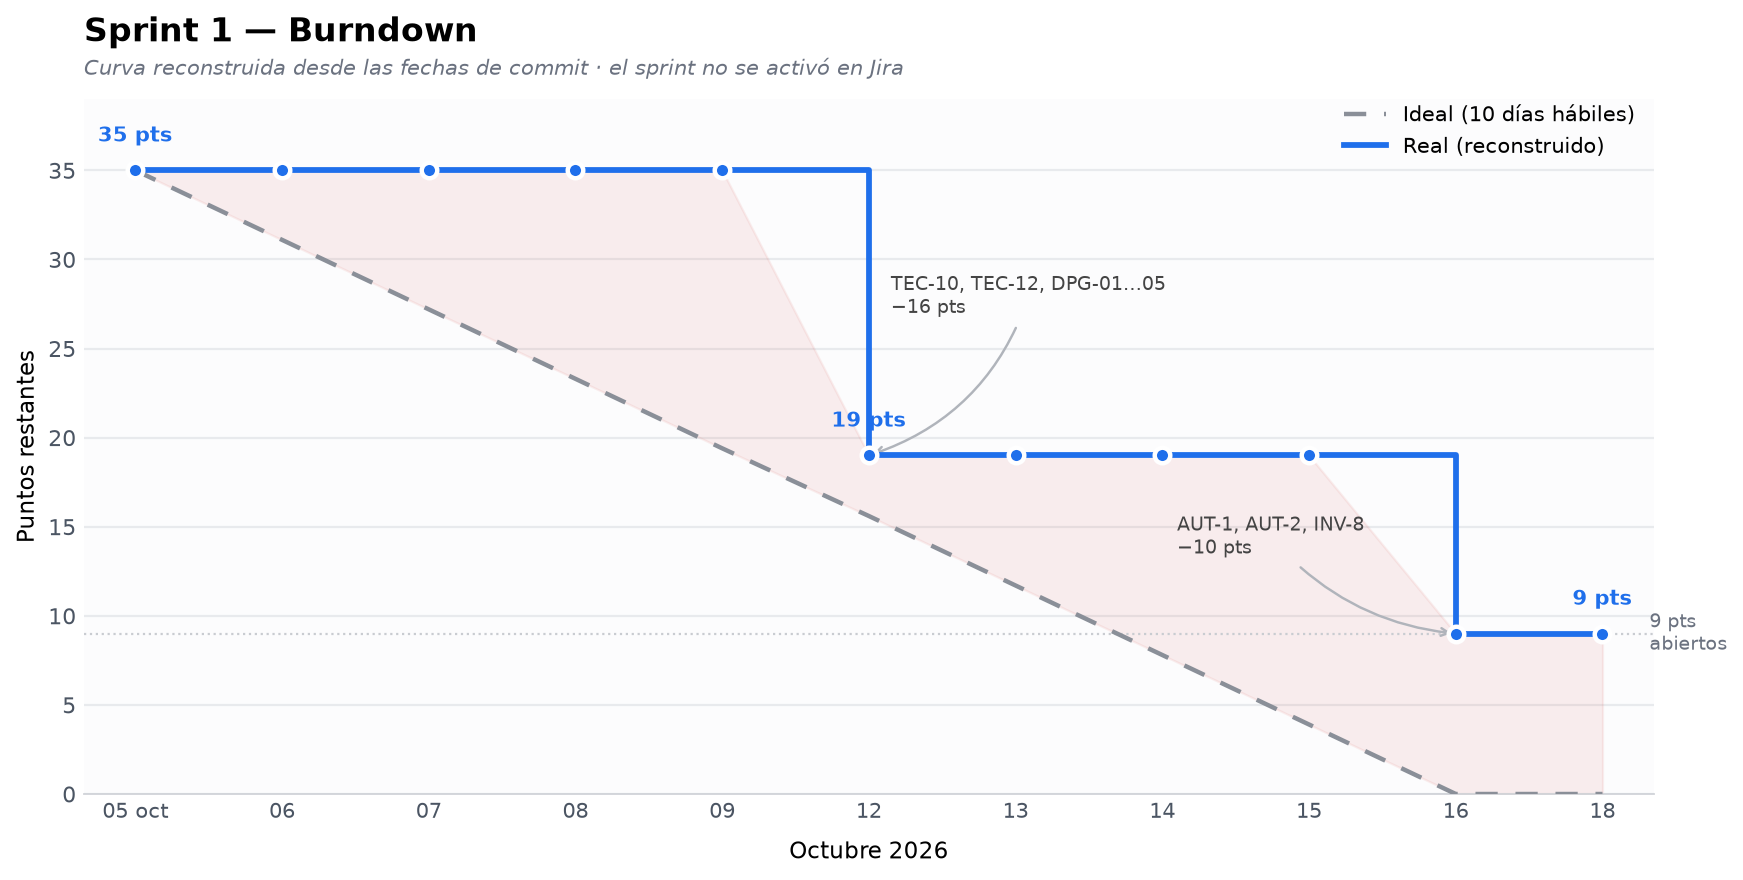
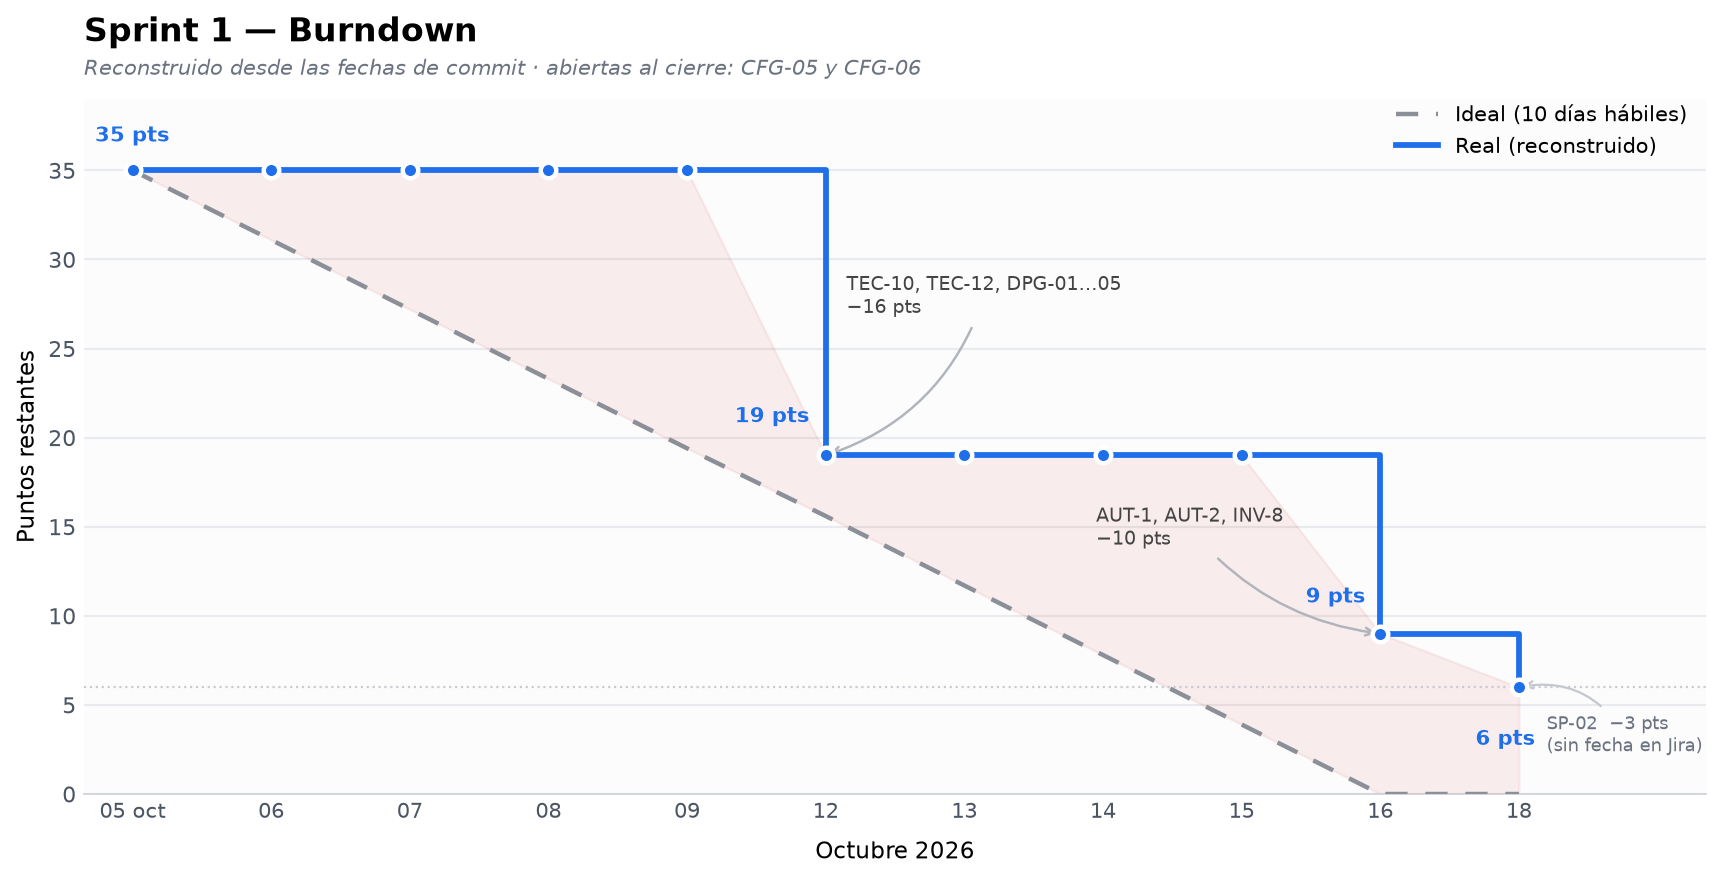
docs(fase2): corregir trazabilidad del Sprint 1 contra Jira
El tablero afirmaba ser un render de los datos de la API de Jira. No lo era: Jira tiene 3 HUs asignadas al Sprint 1 (ZO-11, ZO-12 y ZO-71) y el documento mostraba 13. La lista de HUs se habia reconstruido desde los commits, que prueban el trabajo pero no la pertenencia al sprint.

diff --git a/docs/fase2/sprint-1/scrumboard.md b/docs/fase2/sprint-1/scrumboard.md
@@ -2,19 +2,22 @@
 
 ![Tablero del Sprint 1 al cierre](./scrumboard.png)
 
-> **Imagen renderizada desde los datos de Jira**, no una captura del tablero. Muestra las mismas
-> HUs, columnas y puntos que devuelve la API para
-> `project = ZO AND sprint = "Sprint 1 — Prototipo y motor"`, pero se genera a partir de esos datos
-> para que quede versionada y no dependa de una sesión autenticada.
+> **Reconstrucción, no captura.** Jira no se usó como fuente de verdad durante el sprint: al
+> cierre, el Sprint 1 tenía **3 HUs asignadas** (ZO-11, ZO-12 y ZO-71). Las otras diez se
+> completaron en las mismas fechas pero nunca se asignaron al sprint.
+>
+> Este tablero reconstruye el estado del trabajo a partir de los commits y del estado de cada HU
+> en Jira. La asignación de las diez HUs al sprint se corrige en el ordenamiento de Jira, y
+> entonces esta imagen se reemplaza por una captura del tablero real.
 
 ## Columnas
 
 | Columna | HUs |
 |---|---|
 | **Por hacer** | ZO-11 (CFG-05), ZO-12 (CFG-06) |
-| **En curso** | ZO-71 (SP-02) |
+| **En curso** | — |
 | **En revisión** | — |
-| **Listo** | ZO-30, ZO-31, ZO-39, ZO-60, ZO-62, ZO-79, ZO-80, ZO-81, ZO-82, ZO-83 |
+| **Listo** | ZO-30, ZO-31, ZO-39, ZO-60, ZO-62, ZO-71, ZO-79, ZO-80, ZO-81, ZO-82, ZO-83 |
 
 ## Flujo de trabajo
 
@@ -34,12 +37,11 @@ autor.
 | Daño por golpe (DPG) | 5 | — |
 | Autenticación (AUT) | 2 | — |
 | Inventario (INV) | 1 | — |
+| Investigación (SP) | 1 | — |
 | Configuración (CFG) | — | 2 |
-| Investigación (SP) | — | 1 |
 
 ## Observación
 
-Diez de trece HUs cerraron y todas las épicas con alcance técnico quedaron completas. Lo
-abierto es de **producto** (editor de configuración) y **decisión** (Supabase), no de motor.
-Eso explica que el sprint cumpliera su objetivo declarado aunque no cerrara el 100 % del
-alcance.
+Once de trece HUs cerraron y todas las épicas con alcance técnico quedaron completas. Lo
+abierto es de **producto** (editor de configuración), no de motor ni de decisión. Eso explica
+que el sprint cumpliera su objetivo declarado aunque no cerrara el 100 % del alcance.

diff --git a/docs/fase2/sprint-1/backlog.md b/docs/fase2/sprint-1/backlog.md
@@ -1,6 +1,12 @@
 # Sprint 1 — Backlog
 
-Estado al cierre del sprint, 18 de octubre de 2026. Fuente: Jira, proyecto `ZO`.
+Estado al cierre del sprint, 18 de octubre de 2026. Fuente: Jira, proyecto `ZO`, contrastado con
+el historial de commits.
+
+> **Advertencia de trazabilidad.** De estas trece HUs, Jira solo tenía **tres** asignadas al
+> sprint (ZO-11, ZO-12 y ZO-71). Las diez restantes se completaron en las mismas fechas pero
+> quedaron sin asignar. El estado y los puntos son correctos; la pertenencia al sprint se
+> corrige en el ordenamiento de Jira.
 
 | HU | Título | Pts | Estado | Evidencia |
 |---|---|---|---|---|
@@ -16,14 +22,14 @@ Estado al cierre del sprint, 18 de octubre de 2026. Fuente: Jira, proyecto `ZO`.
 | ZO-39 · INV-8 | Guardar inventario en la nube | 5 | Listo | `libs/data-access` + migraciones de `supabase/` |
 | ZO-11 · CFG-05 | Crear un nuevo juego desde cero | 3 | **Por hacer** | Se traslada al Sprint 2 |
 | ZO-12 · CFG-06 | Ver la configuración completa de un juego | 3 | **Por hacer** | Se traslada al Sprint 2 |
-| ZO-71 · SP-02 | Investigar el uso de Supabase y cuentas de servicio | 3 | **En curso** | Se cierra en el Sprint 2 con la decisión de RLS |
+| ZO-71 · SP-02 | Investigar el uso de Supabase y cuentas de servicio | 3 | Listo | Jira: `Done`. Sin fecha de transición registrada |
 
 ## Resumen
 
 | Estado | HUs | Puntos |
 |---|---|---|
-| Listo | 10 | 26 |
-| En curso | 1 | 3 |
+| Listo | 11 | 29 |
+| En curso | 0 | 0 |
 | Por hacer | 2 | 6 |
 | **Total** | **13** | **35** |
 
@@ -31,7 +37,6 @@ Estado al cierre del sprint, 18 de octubre de 2026. Fuente: Jira, proyecto `ZO`.
 
 - **CFG-05 y CFG-06** (6 pts): dependen del editor de plantillas, que necesita primero el
   esquema de datos ya definido en `shared-types`.
-- **SP-02** (3 pts): la investigación no bloqueaba el motor; se termina cuando entra Supabase.
 
 ## Nota sobre el alcance
 

diff --git a/docs/fase2/sprint-1/burndown.md b/docs/fase2/sprint-1/burndown.md
@@ -27,25 +27,31 @@
 | 14 oct | 7,8 | 19 | — |
 | 15 oct | 3,9 | 19 | — |
 | 16 oct | 0,0 | **9** | AUT-1, AUT-2, INV-8 (−10) |
-| 18 oct | 0,0 | **9** | cierre del sprint |
+| 18 oct | 0,0 | **6** | SP-02 (−3) |
 
 ## Aritmética del cierre
 
 ```
 Comprometido          35 pts
-Cerrado en el sprint  26 pts  (TEC-10, TEC-12, DPG-01…05, AUT-1, AUT-2, INV-8)
-Abierto al cierre      9 pts  (CFG-05, CFG-06, SP-02)
-Cumplimiento          26 / 35 = 74 %
+Cerrado en el sprint  29 pts  (TEC-10, TEC-12, DPG-01…05, AUT-1, AUT-2, INV-8, SP-02)
+Abierto al cierre      6 pts  (CFG-05, CFG-06)
+Cumplimiento          29 / 35 = 83 %
 ```
 
 ## Lectura
 
 - **La curva es escalonada, no diagonal.** Cinco días sin cierre y dos caídas netas (12 y 16 de
   octubre). Es el patrón de trabajo concentrado en sesiones, no de dedicación diaria pareja.
-- **Termina 9 puntos por encima de la línea ideal**, que son exactamente los tres HUs trasladadas
+- **Termina 6 puntos por encima de la línea ideal**, que son exactamente las dos HUs trasladadas
   al Sprint 2. No hay desvío no explicado: todo punto abierto tiene destino.
 - **El hueco no creció a mitad de sprint.** La distancia con el ideal pasó de ~16 puntos el 12 de
-  octubre a 9 al cierre: el trabajo aceleró al final, no se estancó.
+  octubre a 6 al cierre: el trabajo aceleró al final, no se estancó.
+
+## Límite del dato
+
+Jira registra SP-02 como `Done` pero **no guarda la fecha de la transición**, así que el paso de
+9 a 6 puntos no se puede ubicar en un día concreto. Se dibuja en el cierre porque es lo único
+verificable. Los otros dos escalones sí tienen fecha de commit.
 
 ## Datos que respaldan la curva
 

diff --git a/docs/fase2/sprint-1/review.md b/docs/fase2/sprint-1/review.md
@@ -11,9 +11,9 @@ criterio de aceptación declarado.
 | Métrica | Valor |
 |---|---|
 | Puntos comprometidos | 35 |
-| Puntos completados | 26 |
-| Cumplimiento | **74 %** |
-| HUs cerradas | 10 de 13 |
+| Puntos completados | 29 |
+| Cumplimiento | **83 %** |
+| HUs cerradas | 11 de 13 |
 
 ## Incremento demostrable
 
@@ -64,12 +64,11 @@ migraciones son idempotentes.
 | HU | Motivo | Destino |
 |---|---|---|
 | CFG-05, CFG-06 | Necesitan el editor, que depende del contrato recién creado | Sprint 2 |
-| SP-02 | La investigación de cuentas de servicio no bloqueaba el motor | Sprint 2 |
 
 ## Observaciones de la review
 
-- **El 74 % no es un sprint fallido.** El objetivo declarado era el motor, y el motor está
-  completo. Lo abierto es de producto y de decisión, no de la pieza central.
+- **El 83 % no es un sprint fallido.** El objetivo declarado era el motor, y el motor está
+  completo. Lo abierto es de producto, no de la pieza central.
 - **El prototipo cumplió su función y se congela.** A partir de aquí, toda evidencia se produce
   en el monorepo; `demo/` queda como referencia histórica del PR #2.
 - **Sin tag de release todavía.** El incremento es identificable por fecha, no por etiqueta. Se

diff --git a/docs/fase2/sprint-1/impedimentos.md b/docs/fase2/sprint-1/impedimentos.md
@@ -32,7 +32,8 @@ que el proyecto de Vercel sirve `apps/web`, no `demo/`.
 **Problema.** SP-02 investigaba cómo manejar cuentas de servicio en Supabase. Sin esa decisión,
 RLS no se podía diseñar, y sin RLS el inventario en la nube quedaba sin modelo de permisos.
 
-**Estado al cierre.** **Abierto.** Se cierra en el Sprint 2 junto con las políticas RLS.
+**Estado al cierre.** **Resuelto.** Jira registra SP-02 como `Done`, aunque no guarda la fecha de
+la transición, así que el cierre no se puede fechar dentro del sprint con precisión.
 
 ## Resumen
 
@@ -41,4 +42,4 @@ RLS no se podía diseñar, y sin RLS el inventario en la nube quedaba sin modelo
 | IMP-01 | Motor duplicado entre prototipo y monorepo | Resuelto |
 | IMP-02 | Migraciones no idempotentes | Resuelto |
 | IMP-03 | Conflicto de `vercel.json` | Resuelto |
-| IMP-04 | Decisión de cuentas de servicio | Abierto, pasa al Sprint 2 |
+| IMP-04 | Decisión de cuentas de servicio | Resuelto (SP-02 `Done`) |

diff --git a/docs/fase2/sprint-1/planning.md b/docs/fase2/sprint-1/planning.md
@@ -41,5 +41,9 @@ portarlo al monorepo.
 
 ## Resultado
 
-26 de 35 puntos completados (**74 %**). El objetivo se cumplió: el motor quedó portado y
+29 de 35 puntos completados (**83 %**). El objetivo se cumplió: el motor quedó portado y
 probado. Lo que no entró se trasladó al sprint siguiente (ver `backlog.md`).
+
+> La asignación de HUs al sprint en Jira quedó incompleta: de las trece, solo tres estaban
+> asignadas al cierre. Los puntos y estados son los reales de Jira; la pertenencia se corrige
+> en el ordenamiento de Jira.

diff --git a/docs/fase2/sprint-1/daily.md b/docs/fase2/sprint-1/daily.md
@@ -31,8 +31,9 @@ reconstruye desde el historial de commits y las decisiones quedan documentadas p
 
 ## 18 de octubre — cierre
 
-- Cierre del sprint con 26 de 35 puntos.
-- Se traslada CFG-05, CFG-06 y SP-02 al sprint siguiente.
+- Cierre del sprint con 29 de 35 puntos.
+- **SP-02** figura como `Done` en Jira, sin fecha de transición registrada.
+- Se traslada CFG-05 y CFG-06 al sprint siguiente.
 
 ## Observación sobre la cadencia
 
